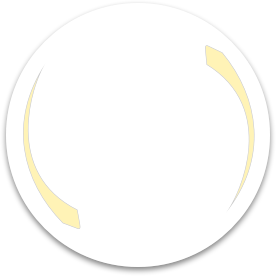
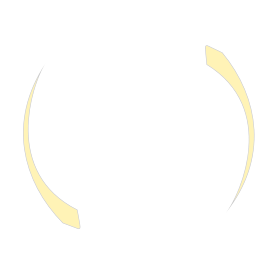
Rewind button aniation

Changed region(s): [[0.0, 0.3478, 0.9855, 0.9855], [0.9275, 0.2899, 0.9565, 0.3478], [0.029, 0.3188, 0.058, 0.3768]]

diff --git a/walk to circle/RewindButton.swift b/walk to circle/RewindButton.swift
@@ -7,15 +7,20 @@
 //
 
 import UIKit
+import QuartzCore
 
 class RewindButton: UIButton {
 
-  private let countdownLabel: UILabel
+  private let countdownLabel = UILabel()
 
   required init(coder aDecoder: NSCoder) {
-    countdownLabel = UILabel()
     super.init(coder: aDecoder)
 
+    initLabel()
+    showArrows()
+  }
+
+  private func initLabel() {
     let font = UIFont.systemFontOfSize(40)
     let textColor = UIColor(red: 255 / 255, green: 217 / 255, blue: 14 / 255, alpha: 0.4)
 
@@ -23,12 +28,30 @@ class RewindButton: UIButton {
       NSForegroundColorAttributeName: textColor,
       NSFontAttributeName: font,
       NSTextEffectAttributeName: NSTextEffectLetterpressStyle
-    ])
+      ])
 
     countdownLabel.attributedText = attributedText
     countdownLabel.setTranslatesAutoresizingMaskIntoConstraints(false)
     RewindButton.positionContdownLabel(self, label: countdownLabel)
   }
+
+  private func showArrows() {
+    let arrowsLayer = CALayer()
+    iiLayer.loadImage(inLayer: arrowsLayer, imageName: "rewind_arrows")
+    iiLayer.centerInParent_withSizeOfParent(arrowsLayer, parentBounds: bounds)
+    self.layer.addSublayer(arrowsLayer)
+
+    RewindButton.rotateArrows(arrowsLayer)
+  }
+
+  private class func rotateArrows(layer: CALayer) {
+    iiAnimator.addInfiniteAnimation(layer, keyPath: "transform.rotation.z",
+      fromVaue: 0, toValue: -M_PI, duration: 1, autoreverses: false)
+
+    iiAnimator.addInfiniteAnimation(layer, keyPath: "transform.rotation.y",
+      fromVaue: 0, toValue: M_PI / 6, duration: 1.3, autoreverses: true)
+  }
+
 
   private class func positionContdownLabel(superview: UIView, label: UILabel) {
     superview.addSubview(label)

diff --git a/walk to circle/iiAnimator.swift b/walk to circle/iiAnimator.swift
@@ -73,4 +73,32 @@ class iiAnimator {
       toValue: toAngle,
       onFinished: onFinished)
   }
+
+  class func addInfiniteAnimation(layer: CALayer, keyPath: String,
+    fromVaue: Double, toValue: Double, duration: Double,
+    autoreverses: Bool = false, cumulative: Bool = false) -> CABasicAnimation {
+
+    let animation = createInfiniteAnimation(keyPath, fromVaue: fromVaue, toValue: toValue,
+      duration: duration, autoreverses: autoreverses, cumulative: cumulative)
+
+    layer.addAnimation(animation, forKey: keyPath)
+
+    return animation
+  }
+
+  class func createInfiniteAnimation(keyPath: String,
+    fromVaue: Double, toValue: Double, duration: Double,
+    autoreverses: Bool = false, cumulative: Bool = false) -> CABasicAnimation {
+
+    let animation = CABasicAnimation(keyPath: keyPath)
+    animation.fromValue = fromVaue
+    animation.toValue = toValue
+    animation.duration = duration
+    animation.autoreverses = autoreverses
+    animation.fillMode = kCAFillModeForwards
+    animation.cumulative = cumulative
+    animation.repeatCount = Float.infinity
+
+    return animation
+  }
 }

diff --git a/walk to circle/iiLayer.swift b/walk to circle/iiLayer.swift
@@ -1,0 +1,29 @@
+//
+//  iiLayer.swift
+//  walk-to-circle
+//
+//  Created by Evgenii Neumerzhitckii on 23/11/2014.
+//  Copyright (c) 2014 Evgenii Neumerzhitckii. All rights reserved.
+//
+
+import UIKit
+
+class iiLayer {
+  class func centerInParent_withSizeOfParent(layer: CALayer, parentBounds: CGRect) {
+    centerInParent(layer, parentBounds: parentBounds)
+    layer.bounds = CGRect(x: 0, y: 0, width: parentBounds.width, height: parentBounds.height)
+  }
+
+  class func centerInParent(layer: CALayer, parentBounds: CGRect) {
+    layer.position = CGPoint(
+      x: parentBounds.width / 2,
+      y: parentBounds.height / 2)
+  }
+
+  class func loadImage(inLayer layer: CALayer, imageName: String) {
+    if let uiImage = UIImage(named: imageName) {
+      layer.contents = uiImage.CGImage
+      layer.contentsScale = UIScreen.mainScreen().scale
+    }
+  }
+}
